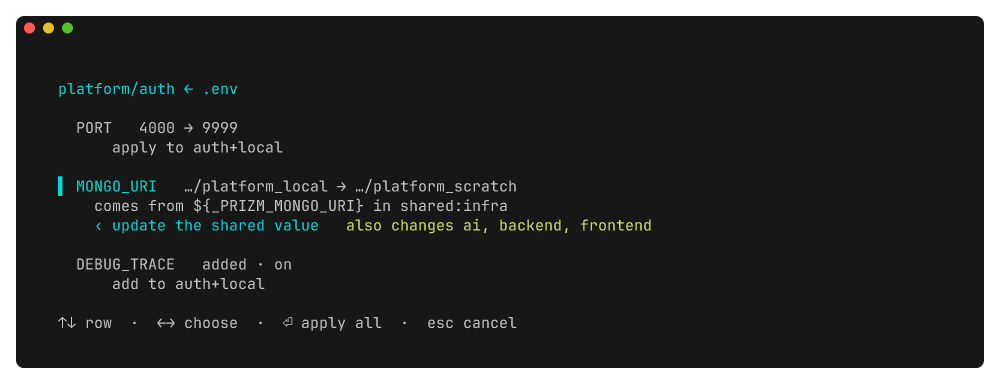
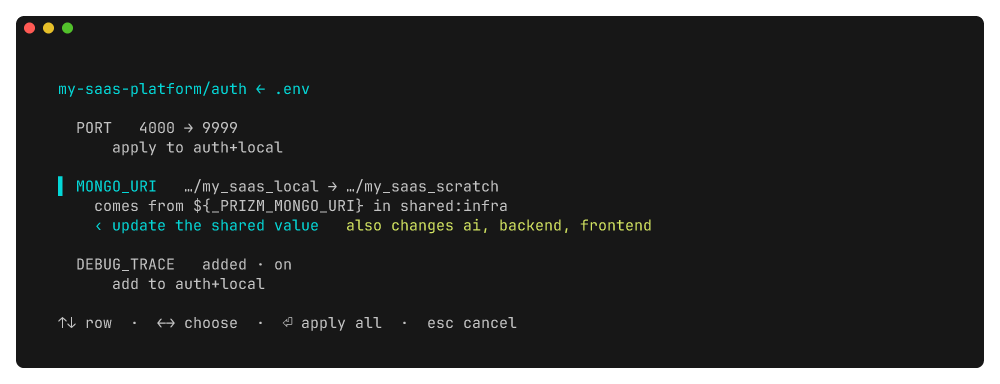
docs: write the README for someone who has never seen the tool
The group was called `platform`, which reads as a keyword you must type
rather than a name you choose. The shape is now shown with placeholders
first — `prizm <group> <workflow>` — and the worked example uses
`my-saas-platform`, which is self-evidently yours to replace.

Restructured for a stranger's first five minutes: install and a
copy-pasteable quickstart now come before the concepts, since "can I run
this" and "show me it working" are the questions that decide whether anyone
reads the rest. Every command in the quickstart was executed verbatim
against a clean sandbox before this was written.

Two facts were wrong. It claimed Go 1.23 when go.mod requires 1.25, and it
said nothing about platforms — Windows does not build, because the apply
lock uses flock and storage is cgo SQLite. Both stated plainly rather than
left for someone to discover at an install prompt.

Added a section on where state lives and what happens to an existing .env,
because "what does this do with my secrets" is the first thing anyone asks
of a tool that manages env files, and the answer was only implicit.

The demo sandbox now defines the same five workflows the picker fixture
shows; `ls` and the picker previously disagreed about which existed.

Changed region(s): [[0.186, 0.4688, 0.527, 0.5], [0.062, 0.2188, 0.31, 0.25]]

diff --git a/internal/tui/render_test.go b/internal/tui/render_test.go
@@ -43,7 +43,7 @@ func TestRenderShowcase(t *testing.T) {
 
 	one := func() pickOneModel {
 		m := newPickOneModel("Select a workflow", workflows)
-		m.context = "platform"
+		m.context = "my-saas-platform"
 		// The workflow picker is the one that offers `e`, so the help line
 		// in the image matches what the command actually shows.
 		m.editable = true
@@ -93,9 +93,9 @@ func TestRenderShowcase(t *testing.T) {
 
 	all := []string{"ai", "auth", "backend", "frontend"}
 	show("repo checkboxes · all ticked, cursor row 2",
-		downMany(newPickManyModel("Repos covered by platform/payments", repos, all), 1).View())
+		downMany(newPickManyModel("Repos covered by my-saas-platform/payments", repos, all), 1).View())
 	show("two unticked",
-		downMany(newPickManyModel("Repos covered by platform/payments", repos, []string{"backend", "frontend"}), 2).View())
+		downMany(newPickManyModel("Repos covered by my-saas-platform/payments", repos, []string{"backend", "frontend"}), 2).View())
 
 	// The history carousel, mid-scrub: the version being considered is two
 	// back, so the diff against the live state is the interesting part.
@@ -103,14 +103,14 @@ func TestRenderShowcase(t *testing.T) {
 		{ID: 1, When: "3d ago", At: "Aug 24 09:12", Source: "import", Note: ".env.local"},
 		{ID: 2, When: "5h ago", At: "14:02", Source: "shared-sync", Note: "infra.env",
 			Changes: []Change{
-				{Key: "MONGO_URI", Mark: '~', From: "…@cluster/platform_local", To: "…@cluster/platform_scratch"},
+				{Key: "MONGO_URI", Mark: '~', From: "…@cluster/my_saas_local", To: "…@cluster/my_saas_scratch"},
 				{Key: "LOG_LEVEL", Mark: '+', From: "debug"},
 				{Key: "FEATURE_FLAGS", Mark: '-', To: "beta"},
 			}},
 		{ID: 3, When: "12m ago", At: "18:30", Source: "var", Note: "PORT"},
 		{ID: 4, When: "just now", At: "18:42:51", Source: "sync", Note: "sync auth", Current: true},
 	}
-	carousel := newHistoryModel("platform/auth · local", versions)
+	carousel := newHistoryModel("my-saas-platform/auth · local", versions)
 	show("history carousel · scrubbed back two", carousel.update(tea.KeyMsg{Type: tea.KeyRight}).View())
 
 	// One decision per row, cycled with ←→. The shared-value case is the one
@@ -119,7 +119,7 @@ func TestRenderShowcase(t *testing.T) {
 		{Key: "PORT", Detail: "4000 → 9999", Choices: []string{"apply to auth+local", "skip"}},
 		{
 			Key:     "MONGO_URI",
-			Detail:  "…/platform_local → …/platform_scratch",
+			Detail:  "…/my_saas_local → …/my_saas_scratch",
 			Note:    "comes from ${_PRIZM_MONGO_URI} in shared:infra",
 			Choices: []string{"update the shared value", "pin to auth only", "skip"},
 			// Only the first choice reaches other repos.
@@ -127,7 +127,7 @@ func TestRenderShowcase(t *testing.T) {
 		},
 		{Key: "DEBUG_TRACE", Detail: "added · on", Choices: []string{"add to auth+local", "skip"}},
 	}
-	resolve := newResolveModel("platform/auth ← .env", rows)
+	resolve := newResolveModel("my-saas-platform/auth ← .env", rows)
 	// Cursor on the shared-value row without cycling: the default choice is
 	// the one that carries a consequence, which is the thing worth seeing.
 	show("sync · one decision per row",

diff --git a/README.md b/README.md
@@ -3,12 +3,20 @@
 Share environment files across repos, grouped by the workflow you want to run.
 
 ```bash
-prizm platform local
+prizm <group> <workflow>
 ```
 
-One command sets up `frontend`, `backend`, `auth` and `ai` — each with its own env file, built from its own layered configuration, symlinked into place.
+Both are names you pick. A **group** is one project spread across several repos; a **workflow** is a named bundle of those repos plus the variables they need.
 
-![prizm ls platform](docs/screenshots/ls.png)
+Throughout this README the group is called `my-saas-platform` and it owns four repos — `frontend`, `backend`, `auth` and `ai`. Substitute your own:
+
+```bash
+prizm my-saas-platform local
+```
+
+One command sets all four up, each with its own env file, built from its own layered configuration and symlinked into place.
+
+![prizm ls my-saas-platform](docs/screenshots/ls.png)
 
 > **v0.5.0.** In daily use. Groups, repos and workflows; four layers of variables with interpolation; `status`, `sync`, `audit` with restore, `$EDITOR` editing, dry runs, an interactive picker, compose services, and directory-aware completion for all of it.
 
@@ -18,25 +26,75 @@ You have a project spread across several repos. Running it locally means a `.env
 
 Copying files around doesn't fix it, because the *sets* differ. Working on the frontend against a deployed backend needs one repo configured. Running the full stack needs four. Debugging payments needs two. These aren't environments — they're workflows, and each one is a different bundle of repos.
 
+## Install
+
+```bash
+go install github.com/troglodytto/prizm@latest
+```
+
+Needs **Go 1.25 or newer**, and a C compiler the first time — storage is SQLite
+via cgo. Runs on **Linux and macOS**; Windows is not supported.
+
+Secrets are encrypted with a key from your OS keychain, so the first command
+that touches a value will ask the keychain for permission.
+
+## Quickstart
+
+Point prizm at two repos, describe one workflow, apply it:
+
+```bash
+prizm init my-saas-platform
+prizm add-repo my-saas-platform ~/code/frontend
+prizm add-repo my-saas-platform ~/code/backend
+
+prizm add-workflow my-saas-platform local   # ticks every repo; ⏎ accepts
+
+prizm var my-saas-platform backend  DATABASE_URL=postgres://localhost/dev PORT=4000
+prizm var my-saas-platform frontend NEXT_PUBLIC_API_URL=http://localhost:4000
+
+prizm my-saas-platform local
+```
+
+Both repos now have a `.env`. `prizm status my-saas-platform` shows where they
+stand, and `prizm my-saas-platform local --dry-run` shows what a run would
+change before it changes anything.
+
+Every prompt has a flag that skips it, so the same lines work in a script with
+no terminal attached — `add-workflow` without `--repos` covers every repo.
+
+Already have `.env` files worth keeping? Import instead of retyping:
+
+```bash
+prizm import my-saas-platform backend ~/code/backend/.env.local
+```
+
 ## The model
 
 A **group** owns **repos** — each pinned to a fixed path — and **workflows**. A workflow is a named bundle: an explicit subset of repos plus their variables.
 
 ```bash
-prizm init platform
-prizm add-repo platform frontend --path ~/code/frontend
-prizm add-repo platform backend  --path ~/code/backend
+prizm init <group>
+prizm add-repo <group> <repo> --path <path>
+prizm add-workflow <group> <workflow> [--repos <a,b>] [--tag prod|qa|local]
+```
 
-prizm add-workflow platform local                          # every repo
-prizm add-workflow platform frontend-only --repos frontend # just one
-prizm add-workflow platform production --tag prod          # guardrailed
+Which, with the names used here, is:
+
+```bash
+prizm init my-saas-platform
+prizm add-repo my-saas-platform frontend --path ~/code/frontend
+prizm add-repo my-saas-platform backend  --path ~/code/backend
+
+prizm add-workflow my-saas-platform local                          # every repo
+prizm add-workflow my-saas-platform frontend-only --repos frontend # just one
+prizm add-workflow my-saas-platform production --tag prod          # guardrailed
 ```
 
 Then switch between them:
 
 ```bash
-prizm platform local            # all four repos configured
-prizm platform frontend-only    # only the frontend; nothing else touched
+prizm my-saas-platform local            # all four repos configured
+prizm my-saas-platform frontend-only    # only the frontend; nothing else touched
 ```
 
 Variables merge in four layers, most specific winning: **group-global** (true everywhere in the group) → **repo-shared** (every workflow touching that repo) → **shared bag** (a named set scoped to a workflow and a subset of repos) → **repo + workflow** (the specific case).
@@ -78,30 +136,30 @@ Keys prefixed `_PRIZM_` are internal — referenceable from any template, never 
 **Where does everything stand?**
 
 ```bash
-prizm status platform
+prizm status my-saas-platform
 ```
 
-![prizm status platform](docs/screenshots/status.png)
+![prizm status my-saas-platform](docs/screenshots/status.png)
 
 Which workflow each repo is on, and which files have been hand-edited since.
 
 **What would this change?**
 
 ```bash
-prizm platform local --dry-run
+prizm my-saas-platform local --dry-run
 ```
 
-![prizm platform local --dry-run](docs/screenshots/dry-run.png)
+![prizm my-saas-platform local --dry-run](docs/screenshots/dry-run.png)
 
 Nothing is written. A repo covered by the workflow but holding no variables for it is flagged rather than given a green tick — a silent gap in a tool that writes prod config is what bites someone at 2am.
 
 **You hand-edited a `.env`. Keep it.**
 
 ```bash
-prizm sync platform auth
+prizm sync my-saas-platform auth
 ```
 
-![prizm sync platform auth](docs/screenshots/sync.png)
+![prizm sync my-saas-platform auth](docs/screenshots/sync.png)
 
 `sync` works out which layer each edit belongs to. A value that came from a shared bag is the interesting case, and it asks rather than guessing:
 
@@ -112,10 +170,10 @@ prizm sync platform auth
 **What did this used to be?**
 
 ```bash
-prizm audit platform auth
+prizm audit my-saas-platform auth
 ```
 
-![prizm audit platform auth](docs/screenshots/audit.png)
+![prizm audit my-saas-platform auth](docs/screenshots/audit.png)
 
 Every write records the state it produced, so history exists before you think to ask for it. `--restore` turns that list into a carousel:
 
@@ -126,7 +184,7 @@ Every write records the state it produced, so history exists before you think to
 **Just show me the options.**
 
 ```bash
-prizm platform
+prizm my-saas-platform
 ```
 
 ![the workflow picker](docs/screenshots/picker.png)
@@ -138,9 +196,9 @@ prizm platform
 A workflow can carry a compose stack, brought up after the env files are written:
 
 ```bash
-prizm docker platform local --compose ./local.yml --services db-tunnel
-prizm platform local     # writes the env files, then starts db-tunnel
-prizm down platform local
+prizm docker my-saas-platform local --compose ./local.yml --services db-tunnel
+prizm my-saas-platform local     # writes the env files, then starts db-tunnel
+prizm down my-saas-platform local
 ```
 
 Docker is deliberately best-effort and reported separately: if the daemon is closed, the env files are still written and `up` still succeeds. Each workflow gets its own compose project, so two workflows can share a compose file without adopting each other's containers.
@@ -157,13 +215,24 @@ A few decisions worth knowing before you rely on it:
 - **Ambiguity is refused, not guessed.** A command that could mean two repos, two layers, or two workflows stops and says which — quietly acting on the first one is how a destructive command becomes a surprise.
 - **Applies are exclusive.** Two `up` runs cannot interleave writes across the same repos; the second fails immediately rather than waiting.
 
-## Install
+## Where your data lives
 
-```bash
-go install github.com/troglodytto/prizm@latest
-```
+Everything is under `~/.local/share/prizm` (or `$XDG_DATA_HOME/prizm`), created
+owner-only:
 
-Requires Go 1.23 or newer.
+| Path | What |
+| --- | --- |
+| `prizm.db` | groups, repos, workflows, variables — values encrypted |
+| `shared/<group>/` | the bag files you edit by hand |
+| `built/<group>/<workflow>/` | the generated env files your repos link to |
+
+A managed repo's `.env` is a **symlink** into `built/`. The first time prizm
+takes over a repo that already had a real `.env`, it is renamed to
+`.env.prizm-backup.<timestamp>` rather than replaced.
+
+Values are AES-256-GCM encrypted with a key held in your OS keychain; variable
+*names* stay in plaintext, which is what keeps shell completion instant. Nothing
+is sent anywhere — prizm has no network access and no account.
 
 ## Shell completion
 
